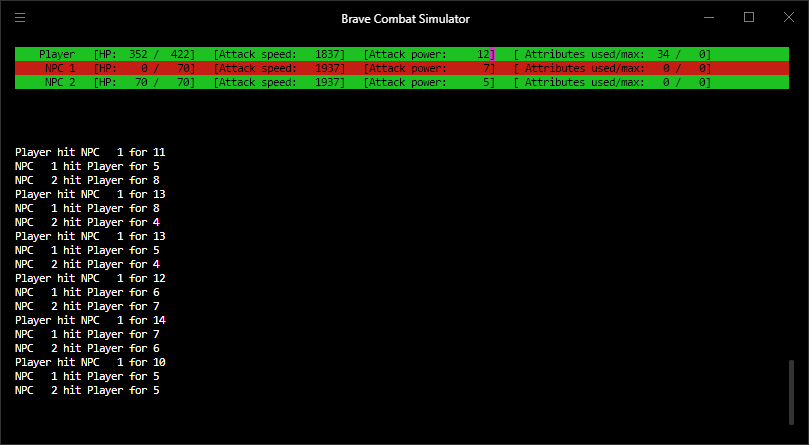
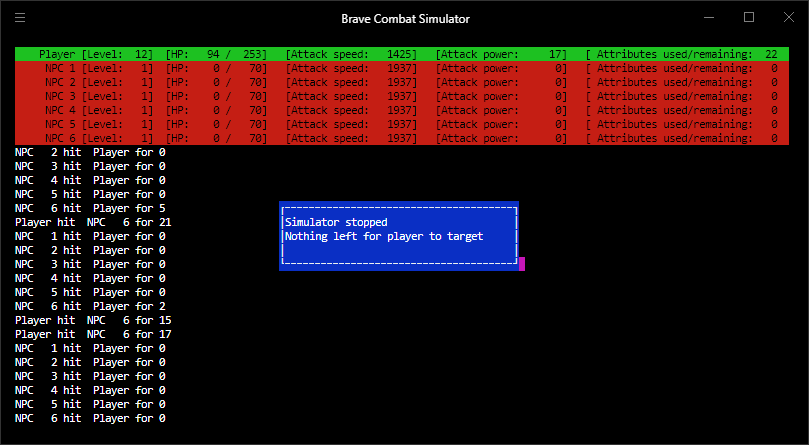
added crit chance. updated some formulas

Changed region(s): [[0.0, 0.0876, 0.9889, 0.964], [0.3399, 0.4382, 0.6489, 0.6135], [0.958, 0.818, 0.9889, 0.964]]

diff --git a/src/class/Character.ts b/src/class/Character.ts
@@ -1,6 +1,6 @@
 import * as blessed from 'blessed';
 import { ATTR_POINTS } from '../app';
-import { CharacterStats, CharacterType, WeaponStats } from '../lib/shared';
+import { CharacterStats, CharacterType, CRIT_MODIFIER, DamageTypes, HitData, WeaponStats } from '../lib/shared';
 import { Util } from '../lib/Util';
 import { CharacterCreatedEvent, CharacterCreatedData, Events, CharacterDiedEvent, CharacterDiedData } from './Events';
 
@@ -34,7 +34,7 @@ export class Character {
   // dynamic props
   public lastAttackAt: number = 0;
   
-  constructor(level: number, characterStats: CharacterStats, weaponStats: WeaponStats, armorValue) {
+  constructor(level: number, characterStats: CharacterStats, weaponStats: WeaponStats, armorValue: number) {
     this.level = level;
     
     this.str = characterStats.str || 5;
@@ -51,6 +51,11 @@ export class Character {
     this.spawn();
     Events.emit(CharacterCreatedEvent, { character: this } as CharacterCreatedData)    
   }
+
+  // how much health is restored every 2 seconds
+  get hpRegenRate() {
+    return ~~(this.con / 3);
+  }
   
   // dynamically calculate the character HP based on some formula
   get maxHp() {
@@ -61,11 +66,20 @@ export class Character {
   get attackSpeed() {
     return ~~(this.weaponSpeed - (this.dex / 2 * 25));
   }
+
+  // percent chance that the hit will be a critical hit
+  get critChance() {
+    return this.dex / 3;
+  }
   
   // dynamically calculate the character damage output based on some formula
   // todo: does not consider any armor
-  get attackValue() {
-    return ~~(Util.range(this.weaponLow, this.weaponHigh)) + ~~(this.str * .6)
+  get attackData(): HitData {
+    if(this.dead) return {value: 0, type: DamageTypes.Generic, crit: false};
+    const weaponSkill = this.level; // use level as skill until weapon skills come into play
+    let total = ~~(Util.range(this.weaponLow, this.weaponHigh)) * (1 + (weaponSkill/50) + (this.str/100) + (this.dex/200));
+    const isCriticalHit = this.critChance > Util.range(0, 100); 
+    return {value: ~~(total * (isCriticalHit ? CRIT_MODIFIER : 1)), type: DamageTypes.Generic, crit: isCriticalHit};
   }
   
   // dynamically calculate the character block rating based on some formula
@@ -82,8 +96,8 @@ export class Character {
   // dynamically calculate the characters remaining attribute points based on their level and current distribution
   get attributePointsFree() {
     return ATTR_POINTS + this.attributePoints - this.str - this.dex - this.int - this.con;
-  }
-  
+  } 
+
   // set this characters target
   setTarget(target: Character) {
     this.target = target;
@@ -106,6 +120,14 @@ export class Character {
   
   // generate the readout for this character
   getReadout() {
-    return `${this.type === CharacterType.Npc ? Util.pad(`NPC ${this.id}`, 10) : Util.pad('Player', 10)}   [HP: ${Util.pad(this.hp, 4)} / ${Util.pad(this.maxHp, 4)}]   [Attack speed: ${Util.pad(this.attackSpeed, 6)}]   [Attack power: ${Util.pad(this.attackValue, 6)}]   [ Attributes used/max: ${Util.pad(this.attributePoints, 3)} / ${Util.pad(this.attributePointsFree, 3)}]`
+    const name = this.type === CharacterType.Npc ? Util.pad(`NPC ${this.id}`, 10) : Util.pad('Player', 10);
+    const level = Util.pad(this.level, 3);
+    const hpValues = `${Util.pad(this.hp, 4)} / ${Util.pad(this.maxHp, 4)}`;
+    const attackSpeed = Util.pad(this.attackSpeed, 6);
+    const attackPowePrefix = this.attackData.crit ? '{black-bg}{white-fg}' : '';
+    const attackPowerSuffix = this.attackData.crit ? '{/white-fg}{/black-bg}' : '';
+    const attackPower = `${attackPowePrefix}${Util.pad(this.attackData.value, 6)}${attackPowerSuffix}`;
+    const attrPoints = `${Util.pad(this.attributePoints, 3)} / ${Util.pad(this.attributePointsFree, 3)}`;
+    return `${name} [Level: ${level}]  [HP: ${hpValues}]   [Attack speed: ${attackSpeed}]   [Attack power: ${attackPower}]   [ Attributes used/remaining: ${attrPoints}]`
   }
 }

diff --git a/src/class/Simulator.ts b/src/class/Simulator.ts
@@ -1,6 +1,6 @@
 import * as blessed from 'blessed';
 import { GAME_TICK_SPEED } from '../app';
-import { CharacterType } from '../lib/shared';
+import { CharacterType, HitData, HP_REGEN_RATE } from '../lib/shared';
 import { Util } from '../lib/Util';
 import { Character } from './Character';
 import { Events, SimulatorCreatedEvent, SimulatorCreatedData, SimulatorStoppedData, SimulatorStoppedEvent, SimulatorTickEvent } from './Events';
@@ -11,6 +11,7 @@ export class Simulator {
   public player: Character;
   public foes: Character[] = [];
   private interval: NodeJS.Timeout;
+  private lastHpRegen: number = 0;
   
   constructor() {
     this.UI = blessed.list({
@@ -48,23 +49,31 @@ export class Simulator {
     if(attacker.lastAttackAt <= Date.now() - attacker.attackSpeed) {
       
       // determine the hitValue for this attacker;
-      const hitValue = attacker.attackValue;
+      const attack = attacker.attackData;
       // todo: consider armor
       // const blockValue = target.blockValue;
       
       // add the hit to the combat log
-      this.applyHit(attacker, target, hitValue);
+      this.applyHit(attacker, target, attack);
     }
   }
   
-  applyHit(attacker: Character, target: Character, hitValue: number) {
-    this.UI.add(`${attacker.id ? `NPC ${Util.pad(attacker.id, 3)}` : Util.pad('Player', 4)} hit ${target.id ? `NPC ${Util.pad(target.id, 3)}` : Util.pad('Player', 4)} for ${hitValue}`);
+  applyHit(attacker: Character, target: Character, hitValue: HitData) {
+    this.UI.add(`${attacker.id ? `NPC ${Util.pad(attacker.id, 3)}` : Util.pad('Player', 4)} ${hitValue.crit ? 'CRIT' : 'hit '} ${target.id ? `NPC ${Util.pad(target.id, 3)}` : Util.pad('Player', 4)} for ${hitValue.value}`);
     this.UI.setScrollPerc(100);
-    target.hp -= hitValue;
+    target.hp -= hitValue.value;
     if(target.hp <=0) {        
       target.die();
     }
     attacker.lastAttackAt = Date.now();
+  }
+
+  applyHpRegen(player: Character) {
+    if(this.lastHpRegen <= Date.now() - HP_REGEN_RATE) {
+      player.hp += player.hpRegenRate;
+      player.hp = Math.min(player.hp, player.maxHp);
+      this.lastHpRegen = Date.now();
+    }
   }
   
   process() {
@@ -76,17 +85,20 @@ export class Simulator {
       } else {
         this.stop('Nothing left for player to target')
       }      
-    } 
+    }
     
     // have the player attack its target
     this.attack(this.player, this.player.target);
-    this.player.UI.setText(this.player.getReadout());
+    this.player.UI.setContent(this.player.getReadout());
+
+    // heal the player
+    this.applyHpRegen(this.player);
     
     // loop over all NPCs and let em attack
     for(let n of this.foes) {
       this.attack(n, this.player);
-      n.UI.setText(n.getReadout());
-    }
+      n.UI.setContent(n.getReadout());
+    }   
   }
   
   start() {

diff --git a/src/app.ts b/src/app.ts
@@ -12,9 +12,13 @@ new Screen();
 const sim = new Simulator();
 
 // add a player to the fight
-sim.setPlayer(new Character(18, { str: 16, dex: 13, int: 5, con: 20 },  { speed: 2000, low: 1, high: 5 }, 10));
+sim.setPlayer(new Character(12, { str: 14, dex: 14, int: 5, con: 5 },  { speed: 1600, low: 10, high: 15 }, 10));
 
 // add 2 NPCs to the fight
+sim.addFoe(new Character(1,    { str: 5, dex: 5, int: 5, con: 5} ,   { speed: 2000, low: 1, high: 5 }, 10));
+sim.addFoe(new Character(1,    { str: 5, dex: 5, int: 5, con: 5} ,   { speed: 2000, low: 1, high: 5 }, 10));
+sim.addFoe(new Character(1,    { str: 5, dex: 5, int: 5, con: 5} ,   { speed: 2000, low: 1, high: 5 }, 10));
+sim.addFoe(new Character(1,    { str: 5, dex: 5, int: 5, con: 5} ,   { speed: 2000, low: 1, high: 5 }, 10));
 sim.addFoe(new Character(1,    { str: 5, dex: 5, int: 5, con: 5} ,   { speed: 2000, low: 1, high: 5 }, 10));
 sim.addFoe(new Character(1,    { str: 5, dex: 5, int: 5, con: 5} ,   { speed: 2000, low: 1, high: 5 }, 10));
 

diff --git a/src/lib/shared.ts b/src/lib/shared.ts
@@ -1,17 +1,30 @@
+export const HP_REGEN_RATE = 2000;
+export const CRIT_MODIFIER = 1.35;
+
+export enum DamageTypes {
+  Generic = 'generic'
+};
+
+export  interface HitData {
+  type: string;
+  value: number;
+  crit: boolean;
+}
+
 export interface CharacterStats {
-    str: number;
-    dex: number;
-    int: number;
-    con: number;
-  }
-  
-  export interface WeaponStats {
-    speed: number;
-    high: number;
-    low: number;
-  }
-  
-  export enum CharacterType {
-    Player = 'player',
-    Npc = 'npc',
-  }
+  str: number;
+  dex: number;
+  int: number;
+  con: number;
+}
+
+export interface WeaponStats {
+  speed: number;
+  high: number;
+  low: number;
+}
+
+export enum CharacterType {
+  Player = 'player',
+  Npc = 'npc',
+}

diff --git a/README.md b/README.md
@@ -16,4 +16,7 @@ $ npm run start
 Game balance is hard as hell. I wrote this thing to help me test different formulas. I'm hoping someone else is better at this than I am, and wants to mess around with these formulas to help balance Brave. 
 
 
+## You formulas
+Check out the getters in `Character.ts`
+
 ![Example](/public/screenshot.png)
